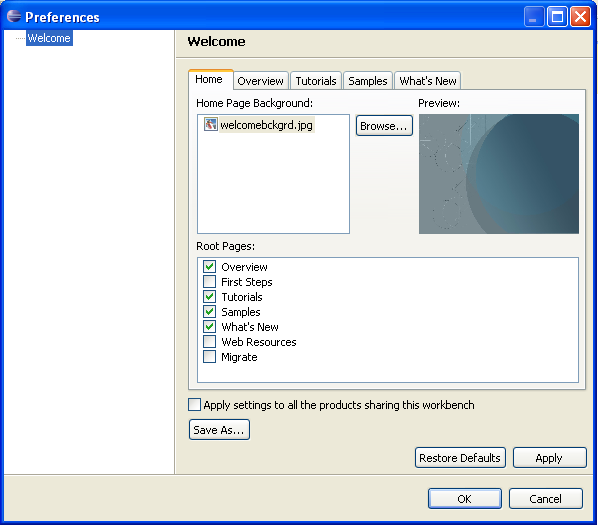
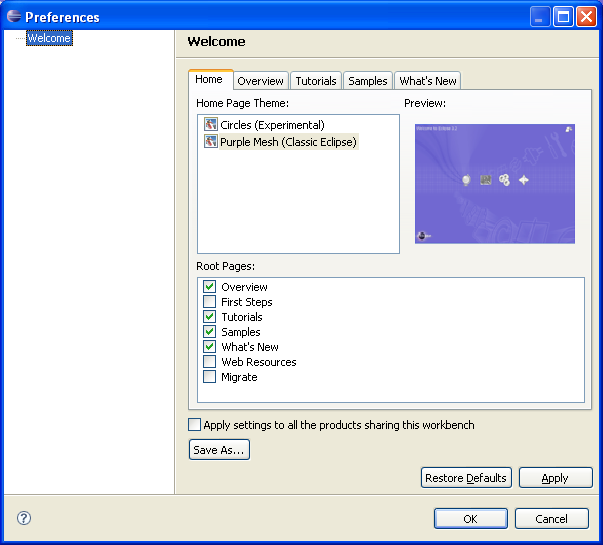
*** empty log message ***

Changed region(s): [[0.0, 0.0, 1.0, 1.0]]

diff --git a/platform-ua/proposals/shared-intro/shared-intro.htm b/platform-ua/proposals/shared-intro/shared-intro.htm
@@ -58,7 +58,7 @@ following principles:</P>
 	<li>Products should be able to point at this implementation without 
 	the need to implement Welcome from scratch</li>
 	<li>Each product should be able to configure Welcome to a 
-	certain degree (root page background, title, branding image)</li>
+	certain degree (title, branding image, presentation theme)</li>
 	<li>A number of root pages that cover most of the products' needs will be 
 	provided. However, the list of pages to show will be 
 	configurable.</li>
@@ -111,9 +111,9 @@ modified. They include product title, branding image and branding image text:</p
                value=&quot;Welcome to Product Bar&quot;/&gt;
          &lt;property
                name=&quot;introBrandingImage&quot;
-               value=&quot;bundle:eclipse.png&quot;/&gt;
+               value=&quot;product:eclipse.png&quot;/&gt;
          &lt;property
-       	       name=&quot;introBrandingText&quot;
+       	       name=&quot;introBrandingImageText&quot;
                value=&quot;XYZ Company&quot;/&gt;
       &lt;/product&gt;</pre>
 <p>Product properties whose values represent a file name relative to the product 
@@ -121,13 +121,14 @@ bundle must be qualified with the 'product:' prefix. The following properties ar
 supported:</p>
 <ul>
 	<li><b>introTitle</b> - the value of the property will be used at the top of 
-	the root page</li>
+	the root page (assuming that the current presentation theme elected to show 
+	the root page title)</li>
 	<li><b>introBrandingImage</b> - the value of the property represents the 
 	file name of the image to be used as the root page brand mark. The image 
 	should ideally be PNG with alpha blending but other formats are also valid. 
 	Image file names relative to the product bundle must have a 'product:' 
 	prefix.</li>
-	<li><b>introBrandingText</b> - an alternative text to be used for the 
+	<li><b>introBrandingImageText</b> - an alternative text to be used for the 
 	branding image.</li>
 </ul>
 <p>Second half of universal intro variables are accessible as preferences. The 
@@ -136,7 +137,7 @@ exposed in the new Welcome preference page. The initial values for these prefere
 should be placed in the 'plugin_customization.ini' file that is referenced from 
 the product extension. These preferences are:</p>
 <ul>
-	<li><b>org.eclipse.ui.intro/INTRO_ROOT_PAGES</b> - a comma-separated list of 
+	<li><b>org.eclipse.ui.intro.universal/INTRO_ROOT_PAGES</b> - a comma-separated list of 
 	root page identifiers that should be visible in the home page. Valid values 
 	are:<ul>
 		<li><b>overview</b></li>
@@ -148,35 +149,36 @@ the product extension. These preferences are:</p>
 		<li><b>webresources</b></li>
 	</ul>
 	</li>
-	<li><b>org.eclipse.ui.intro/</b><b>INTRO_DATA</b> - a file name pointing at 
-	the XML file with the page layout settings (see more about this below)</li>
-	<li><b>org.eclipse.ui.intro/INTRO_BACKGROUND_IMAGE</b> - a file name of the 
-	background image to be used for the root page</li>
-	<li><b>org.eclipse.ui.intro/INTRO_BACKGROUND_IMAGE_LIST</b> - a 
-	comma-separated list of file names to be presented to the user as a choice 
-	of background images in the preferences</li>
+	<li><b>org.eclipse.ui.intro.universal/INTRO_DATA</b> - a file name pointing at 
+	the XML file with the page layout settings (see more about this below). The 
+	file name relative to the product bundle must have 'product:' prefix.</li>
+	<li><b>org.eclipse.ui.intro/INTRO_THEME</b> - a unique identifier of the 
+	presentation theme to be used for this product (read more about theme 
+	support in the <a href="#enhancements">section about Welcome framework 
+	enhancements</a> below). <b>Note that this preference comes from 'org.eclipse.ui.intro 
+	plug-in'</b> because active theme selection is performed at the framework 
+	level.</li>
 </ul>
 <H3>Adding Welcome Customization preference page</H3>
 <p>The combination of product properties and default preference values can fully 
-configure the universal Welcome if no further customization is desired. For 
+configure the Universal Welcome if no further customization is desired. For 
 products that want to allow users to customize Welcome, a preference page is 
 available. The following code should be added to the product's plugin.xml:</p>
 <pre>   &lt;extension
          point=&quot;org.eclipse.ui.preferencePages&quot;&gt;
       &lt;page
             category=&quot;org.eclipse.ui.preferencePages.Workbench&quot;
-            class=&quot;org.eclipse.ui.intro.config.ExtensionFactory:welcomeCustomization&quot;
-            id=&quot;com.example.intro.foo.introCustomization&quot;
+            class=&quot;org.eclipse.ui.intro.universal.ExtensionFactory:welcomeCustomization&quot;
+            id=&quot;com.example.intro.introCustomization&quot;
             name=&quot;%introCustomizationPreference.name&quot;&gt;
          &lt;keywordReference id=&quot;org.eclipse.ui.ide.appearance&quot;/&gt;
       &lt;/page&gt;
    &lt;/extension&gt;</pre>
 <p>This code will add the Welcome customization preference page:</p>
 <p align="center">
-<img border="0" src="home-page-prefs.png" width="598" height="525"></p>
-<p align="left">The page allows users to select an existing or add another 
-background image. The original choice is provided by the background image list 
-preference. In addition, users can choose from the list of available root pages. 
+<img border="0" src="home-page-prefs.png"></p>
+<p align="left">The page allows users to select the presentation theme. The original choice is provided by the 
+theme preference in the plugin_customization.ini file. In addition, users can choose from the list of available root pages. 
 Checking the root page causes the related tab to appear at the top of the 
 dialog.</p>
 <p align="left">When saved, this preference page will prefix the variables with 
@@ -184,7 +186,7 @@ the product id so that it does not interfere with the settings made for other
 products in the same workbench. Alternatively, selecting the checkbox above will 
 not prefix the variables, making the stored settings visible to all the 
 products.</p>
-<H3>Extending the universal Welcome</H3>
+<H3>Extending the Universal Welcome</H3>
 <p>When launching the universal Welcome configured as shown above, you will notice 
 that all of the second level page that branch off the root page have an empty 
 content area. This is because shared Welcome does not have content of its own. 
@@ -215,8 +217,7 @@ fulfill three conditions:</p>
 <P>The ability to resolve extension target paths is a new intro support feature 
 in Eclipse 3.2 added to make universal Welcome more powerful. The feature itself is 
 generic in that it can be used in other Welcome implementations, not just the 
-universal one. In Eclipse 3.2, CustomizableIntroPart can accept an optional intro 
-customizer class that can affect its behavior in several ways. One of the roles 
+universal one. In Eclipse 3.2, CustomizableIntroPart can accept an optional intro customizer class that can affect its behavior in several ways. One of the roles 
 of the customizer is to perform late target path resolution. Of course, as far 
 as product authors are concerned, this is all just implementation detail because 
 in universal Welcome implementation, late target path resolution is performed using 
@@ -264,42 +265,68 @@ contribution that offers links to videos or animation).</p>
 <p>Contributions that are not listed are appended after the listed contributions 
 and assigned a low importance value. This is important for contributions added 
 after the product has shipped - they still need to show up.</p>
-<p>[We are currently contemplating adding a fifth choice called '<b>new</b>'. 
-This value would be automatically assigned to extensions that are not accounted 
-for in the layout data, thus implying that they are placed in the page using 
-default mechanisms. This will allow us to highlight these 'orphaned' extensions. 
-We may add a timeout limit to the 'new' status; for example, an extension will 
-default to 'low' after 5 startups].</p>
 <p>Contributions not relevant to the project can be hidden by explicitly listing 
 them as children of the 'hidden' element.</p>
-<H3>Seeding the introData file</H3>
+<p>Contributing into extensions</p>
+<p>An extension contributed into one of the root pages can itself contain 
+anchors, providing for others to add content. This causes a problem because the 
+final resolved path of the content in the extension is not known in advance. For 
+this reason, target paths for content in extensions that use late path 
+resolution must itself be resolved:</p>
+<blockquote>
+	<pre>&lt;?xml version=&quot;1.0&quot; encoding=&quot;utf-8&quot; ?&gt;
+&lt;introContent&gt;
+   &lt;extensionContent id=&quot;extra&quot; name=&quot;Extra&quot; alt-style=&quot;css/swt.properties&quot; style=&quot;css/overview.css&quot; path=&quot;overview/@&quot;&gt;
+      &lt;group id=&quot;extra-group&quot; style-id=&quot;content-group&quot;&gt;
+         &lt;link label=&quot;Extra Overview link&quot; url=&quot;<a href="http://org.eclipse.ui.intro/showPage?id=extraOverview">http://org.eclipse.ui.intro/showPage?id=extraOverview</a>&quot; 
+					  id=&quot;extra-overview&quot;&gt;
+      	    &lt;text&gt;Showing the third-level extra page for overview&lt;/text&gt;
+         &lt;/link&gt;
+         &lt;anchor id=&quot;additions&quot;/&gt;
+      &lt;/group&gt;
+   &lt;/extensionContent&gt;
+&lt;/introContent&gt;</pre>
+</blockquote>
+<p>In order to contribute into the anchor 'additions' in the extension above, we 
+should use the following path: &quot;overview/@extra/extra-group/additions&quot;. The 
+segment '@extra' will be replaced with the resolved path of the extension with 
+the id 'extra' in the 'overview' page. For example, if the extension is placed 
+in the upper left segment of the page, the resolved path will be: 
+&quot;overview/page-content/upper-left/extra-group/additions&quot;.</p>
+<h3>Seeding the introData file</h3>
 <p>In addition to providing intro customization to the end users for the first 
 time, Welcome preference page will allow product authors to create the 
 introData.xml file to be used for the first startup. The procedure is simple:</p>
 <ol>
 	<li>Launch the product for the first time</li>
-	<li>Open the Welcome preference page</li>
-	<li>For each page, manipulate with the available extensions by moving them 
-	between 'Left', 'Right', 'Bottom' and 'Available' lists, or moving 
-	extensions up or down within the same list.</li>
+	<li>Open the Welcome preference page (a quick way to do this is from the 
+	local tool bar of the Welcome view where a new tool bar button opens the 
+	Preferences into the right page)</li>
+	<li>For each page, manipulate the available extensions by moving them 
+	between the four page quadrants (upper-left, upper-right, lower-left, 
+	lower-right) and the Available list, or moving extensions up or down within 
+	the same list (relative order). Use drag and drop to get the desired 
+	results.</li>
+	<li>If needed, add the separator between the extension within the quadrant.</li>
+	<li>All extensions have the default importance setting of 'Low'. To change 
+	it, click on the extension image to get the drop-down list to open and pick 
+	a different setting from the list (e.g. High, Medium or Callout).</li>
 	<li>Press OK to see the preferences applied to Welcome.</li>
 	<li>If satisfied, open the preference page again and press 'Save As...' 
 	button.</li>
 	<li>Store the file as 'introData.xml' in the product plug-in.</li>
-	<li>Set org.eclipse.ui.intro/INTRO_DATA preference to the value 'product:introData.xml'.</li>
+	<li>Set <b>org.eclipse.ui.intro.universal/INTRO_DATA</b> preference to the value 'product:introData.xml'.</li>
 	<li>Start the product on a fresh workspace to test if the data from the file 
 	has been picked up.</li>
 </ol>
 <H3 align="center">
-<img border="0" src="page-prefs.png" width="608" height="525"></H3>
+<img border="0" src="page-prefs.png" width="707" height="545"></H3>
 <p>List 'Available Extensions' holds all the extensions that are currently 
-hidden. They can be moved to 'Left', 'Right' or 'Bottom' section of each page.</p>
-<p>[Note: the page currently does not show importance settings. In the 
-production version, it will be possible to modify this value in addition to 
-moving extensions.]</p>
+hidden. They can be moved to one of the four quadrants of each page.</p>
 <H3>Handling multiple products</H3>
 <p>The intent of the shared Welcome implementation is that all products that 
-want intelligent content merging point at it instead of creating their own. This 
+want intelligent content merging should point at it instead of creating their own 
+Welcome. This 
 implies that it is possible to end up in a situation where multiple products all 
 pointing at the same shared Welcome coexist in the Eclipse workbench. Intro is 
 handling this situation as follows:</p>
@@ -325,6 +352,8 @@ handling this situation as follows:</p>
 	other products in the same workbench will be added at the most logical 
 	place.</li>
 </ul>
+<p><font color="#800000">[Note: the above currently does not work - only active 
+product intro data is consulted]</font></p>
 <H3>Following links from the main Welcome pages</H3>
 <p>Most of the extensions coming into the main Welcome pages offer links to open 
 further pages contributed by the extensions themselves. It is recommended to 
@@ -346,12 +375,14 @@ these pages should include the navigation from the parent page. For example:</p>
       &lt;/link&gt;
    &lt;/extensionContent&gt;
    &lt;page id=&quot;extraOverview&quot; style-id=&quot;page&quot;&gt;
+      <b>&lt;group id=&quot;extra-group1&quot; filteredFrom=&quot;swt&quot;/&gt;</b>
       <b>&lt;include path=&quot;overview/navigation-links&quot;/&gt;</b>
       &lt;group id=&quot;page-content&quot;&gt;
             &lt;group id=&quot;content-header&quot; label=&quot;EXTRA OVERVIEW&quot; filteredFrom=&quot;swt&quot;&gt;
             &lt;/group&gt;
             &lt;text style-id=&quot;page-title&quot; id=&quot;page-title&quot; filteredFrom=&quot;html&quot;&gt;EXTRA OVERVIEW&lt;/text&gt;
             &lt;text style-id=&quot;page-description&quot; id=&quot;page-description&quot;&gt;Extra overview page description.&lt;/text&gt;
+	    &lt;!-- Add content here --&gt;
       &lt;/group&gt;
    &lt;/page&gt;
 &lt;/introContent&gt;</pre>
@@ -359,18 +390,23 @@ these pages should include the navigation from the parent page. For example:</p>
 <p>The extension above contributed into the overview page contributes a link 
 that shows another page whose definition is part of the extension. Note how we 
 include the group 'navigation-links' that belongs to the 'overview' page at the 
-beginning of the page content definition.</p>
-<H3>Enhancements of the Welcome framework in 3.2</H3>
-<p>In order to make shared welcome possible, we made small enhancements to the 
-Welcome framework. These enhancements are of general nature and are not tied to 
-the shared Welcome implementation:</p>
+beginning of the page content definition. We also add the 'extra-group1' div 
+because it is can be used by some themes for adding additional page decoration 
+(indeed, it is used in 'Purple Mesh' theme for that purpose).</p>
+<h2><a name="enhancements"></a>Enhancements of the Welcome framework in 3.2</h2>
+<p>In order to make universal welcome possible, we made a number of enhancements 
+in the 
+Welcome framework. These enhancements are of general nature and are are 
+applicable to other Welcome implementations:</p>
 <ul>
 	<li><b>configurer</b> attribute added to config element in 
-	org.eclipse.ui.intro.config extension point. The variable allows for 
+	'org.eclipse.ui.intro.config' extension point. The variable allows for 
 	plugging in an optional configurer that extends <b>
-	org.eclipse.ui.intro.config.IntroCofigurer</b> abstract class.</li>
+	org.eclipse.ui.intro.config.IntroCofigurer</b> abstract class. This supports 
+	provides for computed group content, substitution variables, target path 
+	resolution etc.</li>
 	<li><b>computed</b> attribute added to the <code>group</code> element in 
-	intro content schema. This attribute indicates that the children of the 
+	the intro content schema. This attribute indicates that the children of the 
 	group will be dynamically computed by the intro configurer.</li>
 	<li><b>computed</b> attribute added to the <code>launchBar</code> element in 
 	the <b>org.eclipse.ui.intro.config </b>extension point. When true, the 
@@ -380,14 +416,77 @@ the shared Welcome implementation:</p>
 	image on these elements.</li>
 	<li><b>id</b> and <b>name</b> attributes added to the extensionContent 
 	element in the intro content schema (see above for explanation).</li>
+	<li><b>expandable</b> boolean attribute added to the <code>group</code> 
+	element. If <code>true</code>, the group will have the ability to expand and 
+	collapse its children by selecting the title and/or the toggle button.</li>
+	<li>new element <b>hr</b> to be used for horizontal separators in the 
+	content. Separator style is controlled by the active theme.</li>
 </ul>
-<H3>Standard Welcome Presentation</H3>
-<P>[We need to define how CSSs will be applied to control the look of the 
-high/mid/low sections and overall Welcome]</P>
-<P>[We also need to talk about how items in 'high importance' section may 
-require larger icons]</P>
-<H3>SWT fallback presentation</H3>
-<P>[Need to talk a bit about the SWT fallback implementation for platforms that 
-do not support embedded Web browser; this already exists but will have to be 
-enhanced to support the high/med/low sections; it is possible that no changes 
-will be needed]</P></BODY></HTML>
+<h4>Welcome Themes</h4>
+<p>New in 3.2 is support for Welcome themes. Themes can be plugged is using the 
+new element that is part of org.eclipse.ui.intro.configExtension extension 
+point. Plug-in org.eclipse.ui.intro.universal plugs in two themes:</p>
+<pre>   &lt;extension
+         point=&quot;org.eclipse.ui.intro.configExtension&quot;&gt;
+      &lt;theme
+            default=&quot;true&quot;
+            id=&quot;org.eclipse.ui.intro.universal.circles&quot;
+            name=&quot;%theme.name.circles&quot;
+            path=&quot;$nl$/themes/circles&quot;
+            previewImage=&quot;themes/circles/preview.png&quot;&gt;
+            &lt;property name=&quot;launchbarBackground&quot;
+            		value=&quot;#a1c2cb&quot;/&gt;
+            &lt;property name=&quot;launchbarOverviewIcon&quot;
+            		  value=&quot;$theme$graphics/launchbar/overview16.png&quot;/&gt;
+            &lt;property name=&quot;launchbarFirststepsIcon&quot;
+            		  value=&quot;$theme$graphics/launchbar/firststeps16.png&quot;/&gt;
+            &lt;property name=&quot;launchbarTutorialsIcon&quot;
+            		  value=&quot;$theme$graphics/launchbar/tutorials16.png&quot;/&gt;
+            &lt;property name=&quot;launchbarSamplesIcon&quot;
+            		  value=&quot;$theme$graphics/launchbar/samples16.png&quot;/&gt;
+            &lt;property name=&quot;launchbarWhatsnewIcon&quot;
+            		  value=&quot;$theme$graphics/launchbar/whatsnew16.png&quot;/&gt;
+            &lt;property name=&quot;launchbarMigrateIcon&quot;
+            		  value=&quot;$theme$graphics/launchbar/migrate16.png&quot;/&gt;
+            &lt;property name=&quot;launchbarWebresourcesIcon&quot;
+            		  value=&quot;$theme$graphics/launchbar/webresources16.png&quot;/&gt;
+      &lt;/theme&gt;
+      &lt;theme
+            id=&quot;org.eclipse.ui.intro.universal.purpleMesh&quot;
+            name=&quot;%theme.name.purpleMesh&quot;
+            path=&quot;$nl$/themes/purpleMesh&quot;
+            previewImage=&quot;themes/purpleMesh/preview.png&quot;&gt;
+            &lt;property name=&quot;launchbarBackground&quot;
+            		value=&quot;#c6c3e8&quot;/&gt;
+            &lt;property name=&quot;launchbarOverviewIcon&quot;
+            		  value=&quot;$theme$graphics/launchbar/overview.gif&quot;/&gt;
+            &lt;property name=&quot;launchbarFirststepsIcon&quot;
+            		  value=&quot;$theme$graphics/launchbar/firststeps16.png&quot;/&gt;
+            &lt;property name=&quot;launchbarTutorialsIcon&quot;
+            		  value=&quot;$theme$graphics/launchbar/tutorials.gif&quot;/&gt;
+            &lt;property name=&quot;launchbarSamplesIcon&quot;
+            		  value=&quot;$theme$graphics/launchbar/samples.gif&quot;/&gt;
+            &lt;property name=&quot;launchbarWhatsnewIcon&quot;
+            		  value=&quot;$theme$graphics/launchbar/whatsnew.gif&quot;/&gt;
+            &lt;property name=&quot;launchbarMigrateIcon&quot;
+            		  value=&quot;$theme$graphics/launchbar/migrate16.png&quot;/&gt;
+            &lt;property name=&quot;launchbarWebresourcesIcon&quot;
+            		  value=&quot;$theme$graphics/launchbar/webresources16.png&quot;/&gt;
+      &lt;/theme&gt;
+   &lt;/extension&gt;</pre>
+<p>Each theme has a unique identifier, translatable name, preview image and a 
+path to the root theme folder. Intro plug-in does not provide any UI for theme 
+manipulation. The only way to select a theme is via the preference 
+org.eclipse.ui.intro/INTRO_THEME in plugin_customization.ini. </p>
+<p>Theme support by itself does not make intro implementations theme-enabled. It 
+is simply a way of grouping all the presentation files (styles and images) in 
+one place that can be pointed at or switched as one. Concrete intro 
+implementations can choose to expose themes in a more substantial way (and in 
+fact Universal Welcome implementation does exactly that).</p>
+<p>Theme-enabled intro implementation must make all the references to style and 
+presentation resources using the $theme$ substitution variable. Absolute paths 
+for images, pages, styles etc. will be computed by resolving the substitution 
+variable using the path of the currently active theme.</p>
+<p>&nbsp;</p>
+
+</BODY></HTML>
